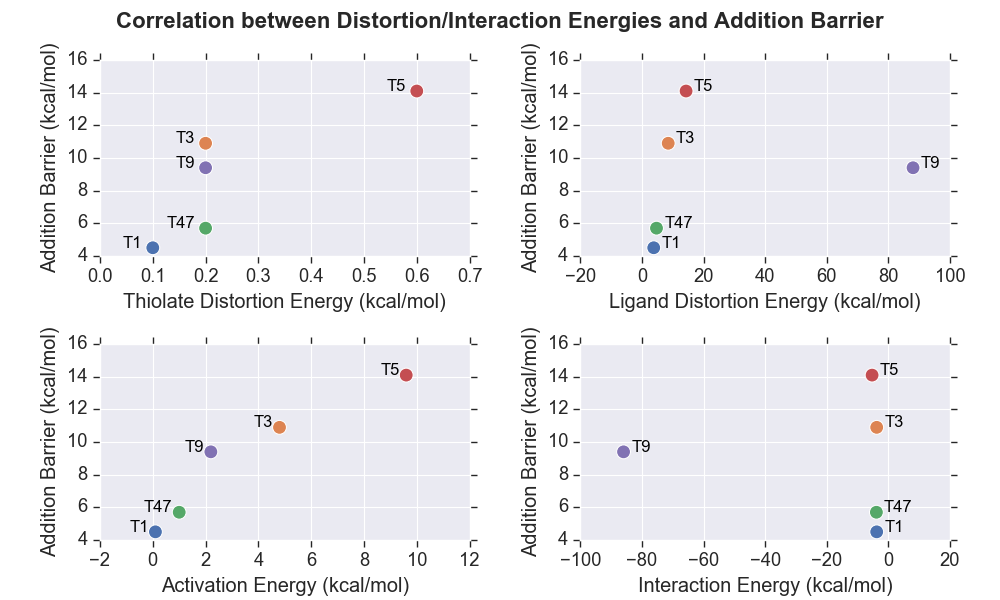
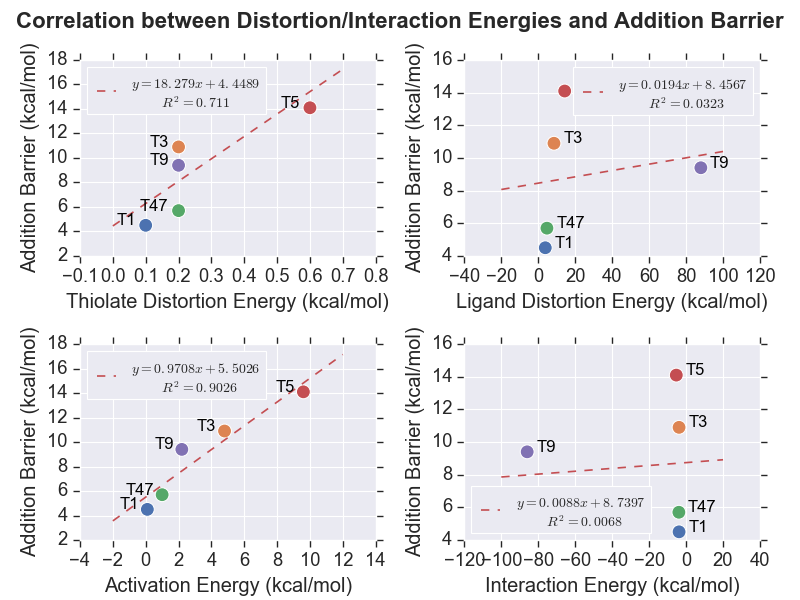
Updated visualG directory

diff --git a/QM/visualG/plot_fig.py b/QM/visualG/plot_fig.py
@@ -6,16 +6,25 @@ Free to be distributed, edited and utilized for purposes beneficial to the world
 Though recognition of my effort is appreciated! XD
 """
 
-import matplotlib.pyplot as plt
 import seaborn as sns
 import pandas as pd
-from run_gaussian.settings import DATA_PATH
+import numpy as np
+from matplotlib import pyplot as plt
+from QM.run_gaussian.settings import DATA_PATH
 
 sns.set(context='paper', font_scale=1.5)
 # sns.despine()  # Remove "chartjunk"
 
 SINGLE_PLOT_WIDTH, SINGLE_PLOT_HEIGHT = 6, 4
-SUBPLOTS_WIDTH, SUBPLOTS_HEIGHT = 10, 6
+FOUR_PLOTS_WIDTH, FOUR_PLOTS_HEIGHT = 8, 6
+SIX_PLOTS_WIDTH, SIX_PLOTS_HEIGHT = 10, 8
+
+
+def lin_reg(m, c, r2, xlimit, leg_loc, font_size="x-small"):
+    x = np.linspace(xlimit[0], xlimit[1], 2)
+    y = m * x + c
+    plt.plot(x, y, '--r', label="$y = {0}x + {1}$\n\t$R^2 = {2}$".format(m, c, r2))
+    plt.legend(loc=leg_loc, fontsize=font_size)
 
 
 if __name__ == "__main__":
@@ -31,23 +40,79 @@ if __name__ == "__main__":
     for line in range(1, df.shape[0] + 1):
         ax.text(df["Ligand LUMO Energy (kcal/mol)"][line], df["Addition Barrier (kcal/mol)"][line] + 0.4,
                 df["Ligand"][line], horizontalalignment='center', size='small', color='black')
+    m, c, r2 = 0.6276, 19.017, 0.7402
+    lin_reg(m, c, r2, plt.xlim(), "upper left", font_size="medium")
     plt.ylim(None, None); plt.xlim(None, None)
     plt.tight_layout()
     plt.savefig("Ligand LUMO Energy")
 
     # Beta-Carbon Charges
-    fig = plt.figure(figsize=(SINGLE_PLOT_WIDTH, SINGLE_PLOT_HEIGHT))
-    fig.subplots_adjust(top=0.9, bottom=0.1, left=0.1, right=0.95)
-    ax = sns.scatterplot(x="B-Carbon Charge (e)", y="Addition Barrier (kcal/mol)", data=df, hue="Ligand", legend=False, s=100)
+    fig = plt.figure(figsize=(SIX_PLOTS_WIDTH, SIX_PLOTS_HEIGHT))
+    fig.subplots_adjust(top=0.9, bottom=0.1, left=0.1, right=0.95, wspace=0.3, hspace=0.45)
+    fig.suptitle(r"Correlation between $\beta$-Carbon Charge and Addition Barrier",
+                 horizontalalignment='center', fontsize=16, weight='bold')
+    ax1 = fig.add_subplot(3, 2, 1)
+    p1 = sns.scatterplot(x="Mulliken Charge (e)", y="Addition Barrier (kcal/mol)", data=df,
+                         hue="Ligand", legend=False, s=100)
     for line in range(1, df.shape[0] + 1):
-        ax.text(df["B-Carbon Charge (e)"][line], df["Addition Barrier (kcal/mol)"][line] + 0.4,
-                df["Ligand"][line], horizontalalignment='center', size='small', color='black')
-    plt.ylim(None, None); plt.xlim(None, None)
-    plt.tight_layout()
+        ax1.text(df["Mulliken Charge (e)"][line]-0.03, df["Addition Barrier (kcal/mol)"][line],
+                 df["Ligand"][line], horizontalalignment='right', size='small', color='black')
+    m, c, r2 = -9.5378, 8.4412, 0.6933
+    lin_reg(m, c, r2, plt.xlim(), "upper right")
+
+    ax2 = fig.add_subplot(3, 2, 2)
+    p2 = sns.scatterplot(x="NBO Charge (e)", y="Addition Barrier (kcal/mol)", data=df,
+                         hue="Ligand", legend=False, s=100)
+    for line in range(1, df.shape[0] + 1):
+        ax2.text(df["NBO Charge (e)"][line]-0.01, df["Addition Barrier (kcal/mol)"][line],
+                 df["Ligand"][line], horizontalalignment='right', size='small', color='black')
+    m, c, r2 = -13.261, 7.3075, 0.2655
+    lin_reg(m, c, r2, plt.xlim(), "upper right")
+
+    ax3 = fig.add_subplot(3, 2, 3)
+    p3 = sns.scatterplot(x="Merz-Kollman Charge (e)", y="Addition Barrier (kcal/mol)", data=df, hue="Ligand",
+                         legend=False, s=100)
+    for line in range(1, df.shape[0] + 1):
+        ax3.text(df["Merz-Kollman Charge (e)"][line]+0.01, df["Addition Barrier (kcal/mol)"][line],
+                 df["Ligand"][line], horizontalalignment='left', size='small', color='black')
+    m, c, r2 = 7.8488, 4.5388, 0.1579
+    lin_reg(m, c, r2, plt.xlim(), "lower right")
+
+    ax4 = fig.add_subplot(3, 2, 4)
+    p4 = sns.scatterplot(x="Hirshfeld CM5 Charge (e)", y="Addition Barrier (kcal/mol)", data=df, hue="Ligand",
+                         legend=False, s=100)
+    for line in range(1, df.shape[0] + 1):
+        ax4.text(df["Hirshfeld CM5 Charge (e)"][line]+0.03, df["Addition Barrier (kcal/mol)"][line],
+                 df["Ligand"][line], horizontalalignment='left', size='small', color='black')
+    m, c, r2 = -5.7879, 9.3252, 0.4627
+    lin_reg(m, c, r2, plt.xlim(), "upper right")
+
+    ax5 = fig.add_subplot(3, 2, 5)
+    p5 = sns.scatterplot(x="ChelpG Charge (e)", y="Addition Barrier (kcal/mol)", data=df, hue="Ligand",
+                         legend=False, s=100)
+    for line in range(1, df.shape[0] + 1):
+        ax5.text(df["ChelpG Charge (e)"][line]-0.025, df["Addition Barrier (kcal/mol)"][line],
+                 df["Ligand"][line], horizontalalignment='right', size='small', color='black')
+    m, c, r2 = -20.086, 21.333, 0.3557
+    lin_reg(m, c, r2, plt.xlim(), "upper left")
+
+    ax6 = fig.add_subplot(3, 2, 6)
+    p6 = sns.scatterplot(x="AIM Charge (e)", y="Addition Barrier (kcal/mol)", data=df, hue="Ligand",
+                         legend=False, s=100)
+    for line in range(1, df.shape[0] + 1):
+        ax6.text(df["AIM Charge (e)"][line]-0.008, df["Addition Barrier (kcal/mol)"][line],
+                 df["Ligand"][line], horizontalalignment='right', size='small', color='black')
+    m, c, r2 = -63.398, 10.76, 0.1817
+    lin_reg(m, c, r2, plt.xlim(), "upper right")
+
+    # plt.legend(p4, loc="center right", borderaxespad=0.1, title="Ligands")
+    # plt.ylim(3, 15); plt.xlim(None, None)
+    # plt.tight_layout()
     plt.savefig("Beta-Carbon Charges")
+    # plt.show()
 
     # Distortion/Interaction Analysis
-    fig = plt.figure(figsize=(SUBPLOTS_WIDTH, SUBPLOTS_HEIGHT))
+    fig = plt.figure(figsize=(FOUR_PLOTS_WIDTH, FOUR_PLOTS_HEIGHT))
     # fig, axes = plt.subplots(nrows=2, ncols=2, sharex=False, sharey=True)
     fig.subplots_adjust(top=0.9, bottom=0.1, left=0.1, right=0.95, wspace=0.3, hspace=0.45)
     fig.suptitle("Correlation between Distortion/Interaction Energies and Addition Barrier", horizontalalignment='center', fontsize=16, weight='bold')
@@ -56,21 +121,33 @@ if __name__ == "__main__":
     for line in range(1, df.shape[0] + 1):
         ax1.text(df["Thiolate Distortion Energy (kcal/mol)"][line]-0.03, df["Addition Barrier (kcal/mol)"][line],
                 df["Ligand"][line], horizontalalignment='right', size='small', color='black')
+    m, c, r2 = 18.279, 4.4489, 0.711
+    lin_reg(m, c, r2, plt.xlim(), "upper left")
+
     ax2 = fig.add_subplot(2, 2, 2)
     p2 = sns.scatterplot(x="Ligand Distortion Energy (kcal/mol)", y="Addition Barrier (kcal/mol)", data=df, hue="Ligand", legend=False, s=100)
     for line in range(1, df.shape[0] + 1):
         ax2.text(df["Ligand Distortion Energy (kcal/mol)"][line]+5, df["Addition Barrier (kcal/mol)"][line],
                 df["Ligand"][line], horizontalalignment='left', size='small', color='black')
+    m, c, r2 = 0.0194, 8.4567, 0.0323
+    lin_reg(m, c, r2, plt.xlim(), "best")
+
     ax3 = fig.add_subplot(2, 2, 3)
     p3 = sns.scatterplot(x="Activation Energy (kcal/mol)", y="Addition Barrier (kcal/mol)", data=df, hue="Ligand", legend=False, s=100)
     for line in range(1, df.shape[0] + 1):
         ax3.text(df["Activation Energy (kcal/mol)"][line]-0.5, df["Addition Barrier (kcal/mol)"][line],
                 df["Ligand"][line], horizontalalignment='right', size='small', color='black')
+    m, c, r2 = 0.9708, 5.5026, 0.9026
+    lin_reg(m, c, r2, plt.xlim(), "upper left")
+
     ax4 = fig.add_subplot(2, 2, 4)
     p4 = sns.scatterplot(x="Interaction Energy (kcal/mol)", y="Addition Barrier (kcal/mol)", data=df, hue="Ligand", legend=False, s=100)
     for line in range(1, df.shape[0] + 1):
         ax4.text(df["Interaction Energy (kcal/mol)"][line]+5, df["Addition Barrier (kcal/mol)"][line],
                 df["Ligand"][line], horizontalalignment='left', size='small', color='black')
+    m, c, r2 = 0.0088, 8.7397, 0.0068
+    lin_reg(m, c, r2, plt.xlim(), "lower left")
+
     # plt.legend(p4, loc="center right", borderaxespad=0.1, title="Ligands")
     plt.ylim(None, None); plt.xlim(None, None)
     # plt.tight_layout()
